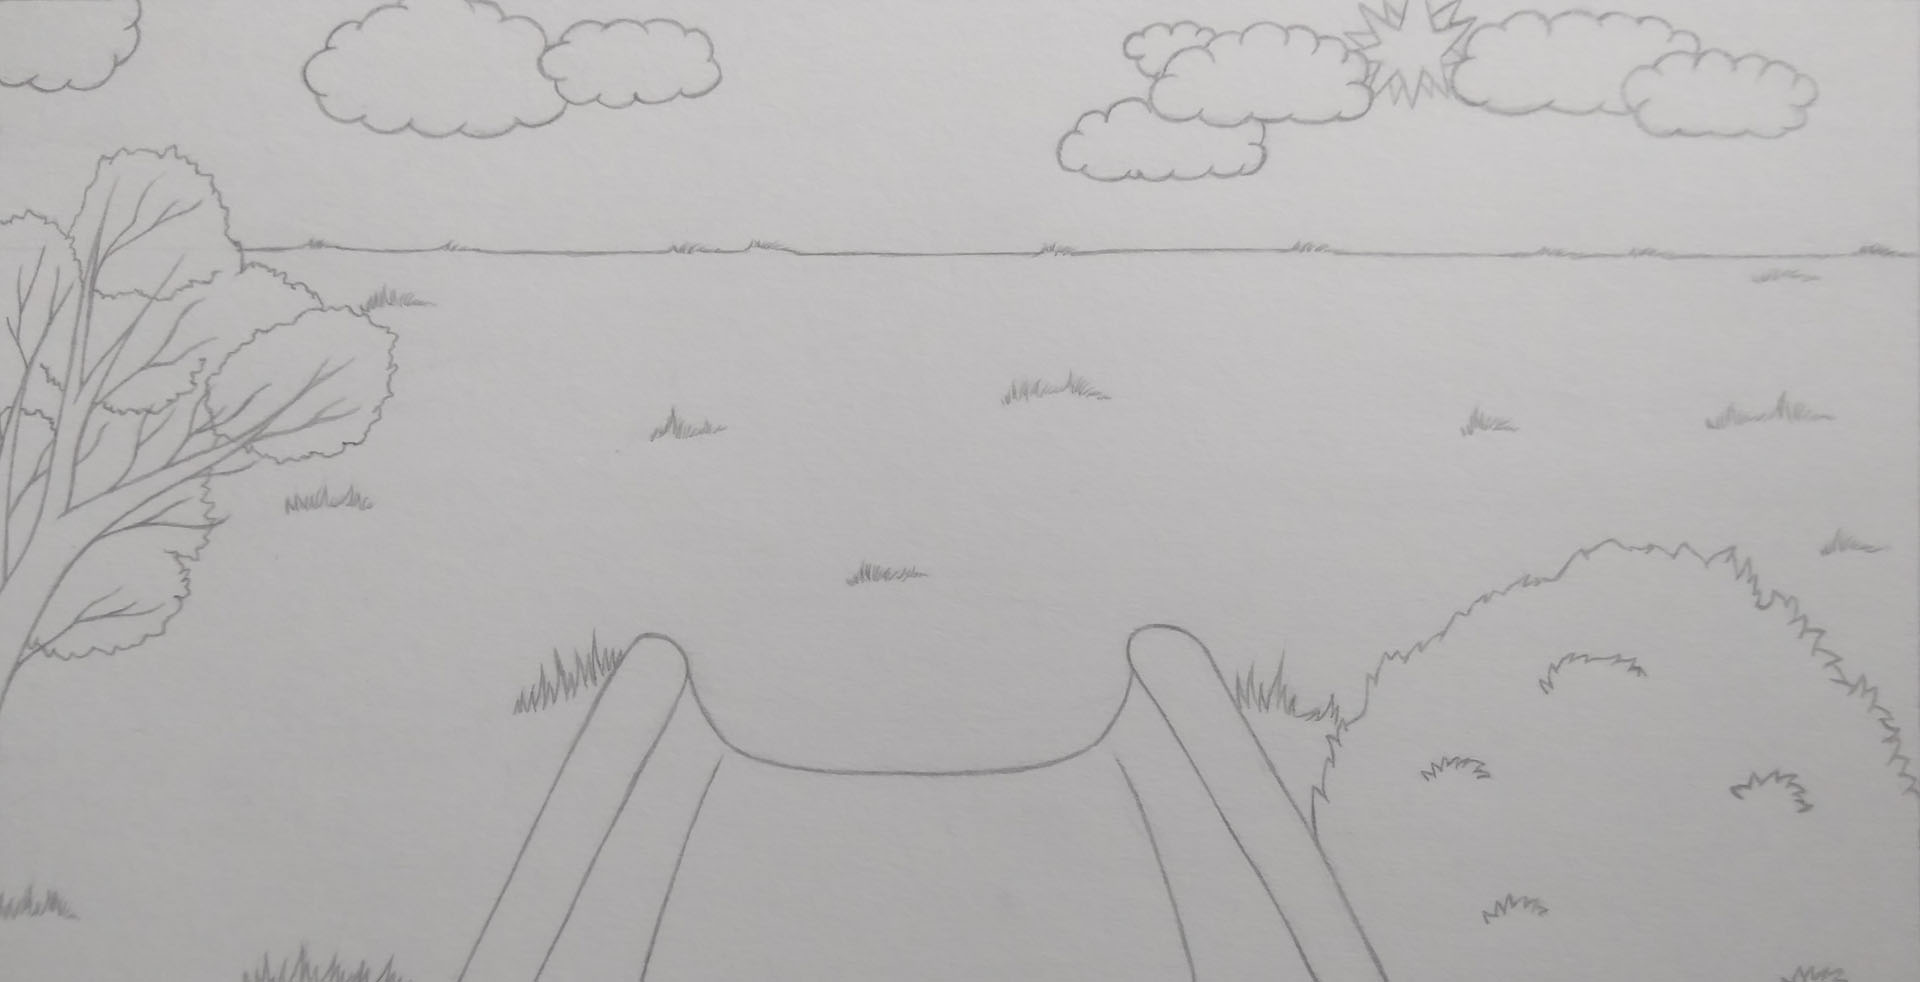
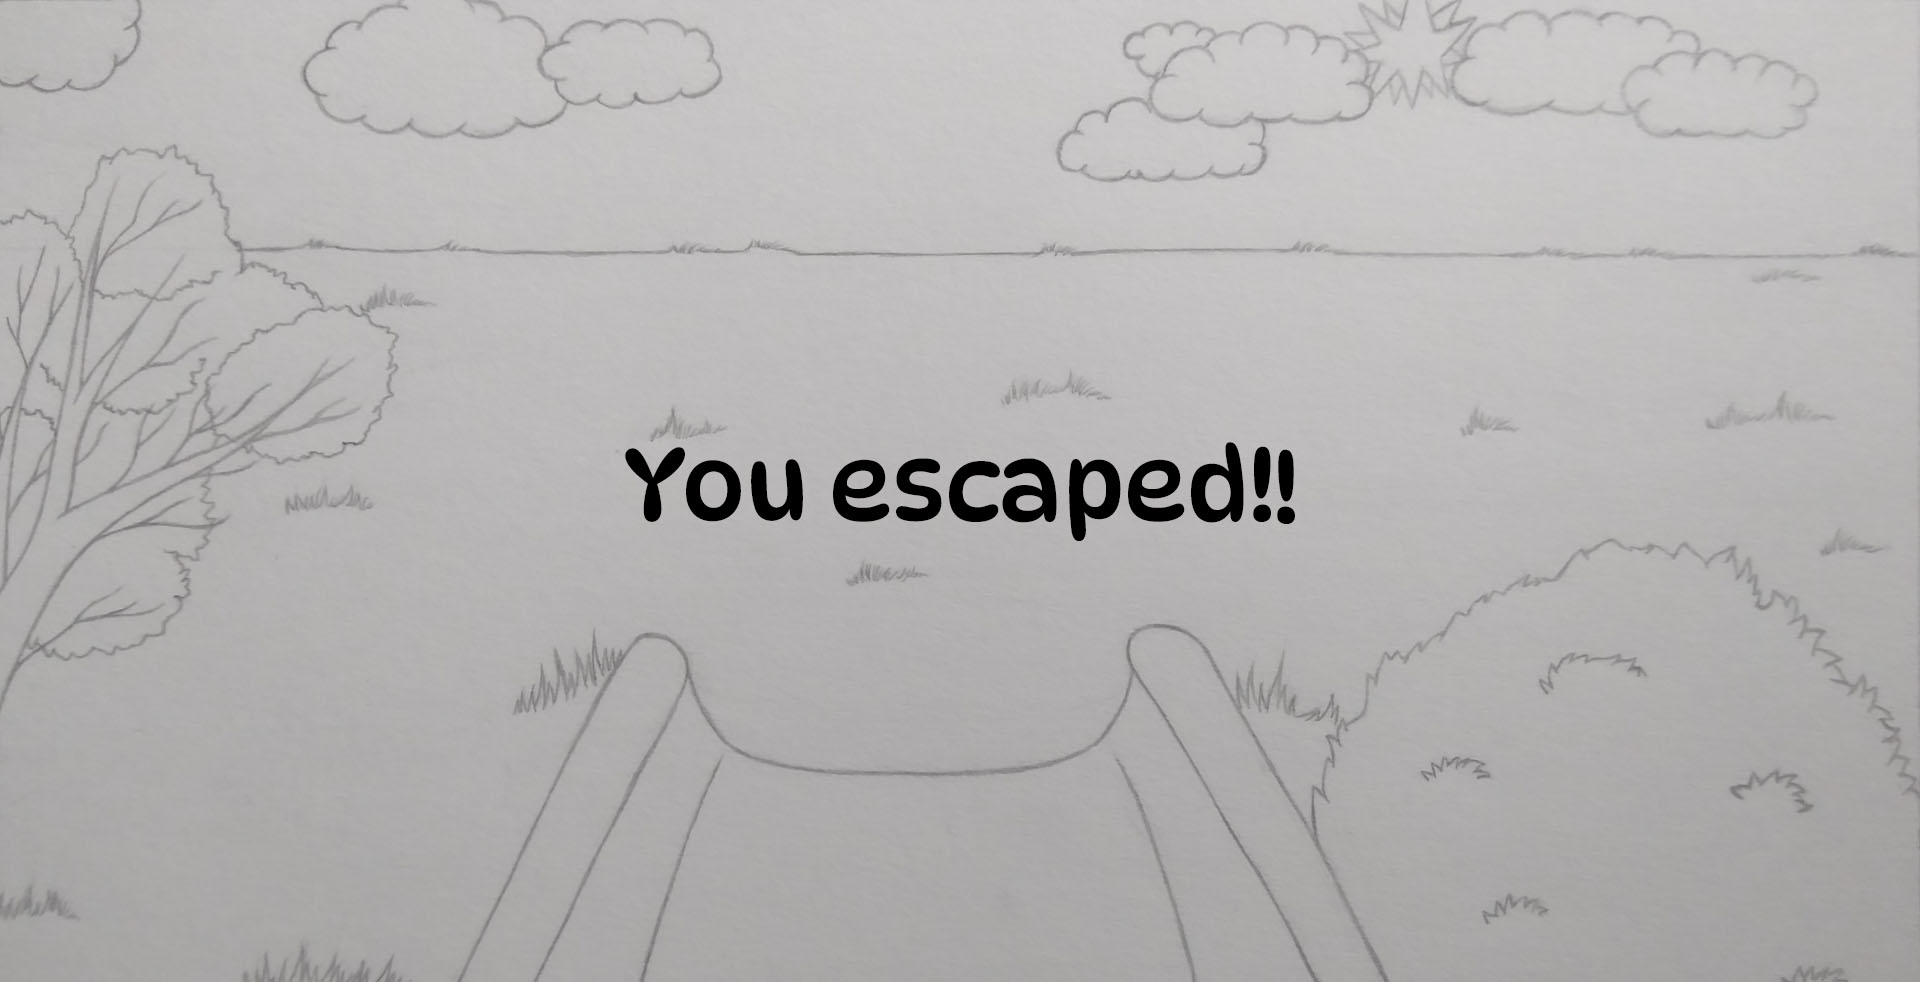
Added to navigation, added text to the escape screen.

Changed region(s): [[0.3125, 0.4582, 0.6875, 0.5499]]

diff --git a/static/myStyle.css b/static/myStyle.css
@@ -13,9 +13,56 @@
     height: 121px;
 }
 
+/* CSS for the navigation blocks --- invisible shapes overlaying doors, hallway entrances etc */
+
 #hallway1NavBlock {
     margin-top: -990px;
     margin-left: 1202px;
     margin-bottom: 430px;
     opacity: 0%;
+}
+
+#bearRoomNavBlock1 {
+    margin-top: -900px;
+    margin-left: 348px;
+    margin-bottom: 970px;
+    opacity: 0%;
+}
+
+#bearRoomNavBlock2 {
+    margin-top: -1440px;
+    margin-left: 1105px;
+    margin-bottom: 1270px;
+    opacity: 0%;
+}
+
+#beachNavBlock1 {
+    margin-top: -985px;
+    margin-left: 58px;
+    margin-bottom: 1038px;
+    opacity: 0%;
+}
+
+#beachNavBlock2 {
+    margin-top: -1495px;
+    margin-left: 60px;
+    margin-bottom: 1465px;
+    opacity: 0%;
+}
+
+#keyHallNavBlock {
+    margin-top: -1283px;
+    margin-left: 609px;
+    margin-bottom: 417px;
+    opacity: 0%;
+}
+
+#mirrorRoomNavBlock {
+    margin-top: -527px;
+    margin-left: 676px;
+    margin-bottom: 317px;
+    opacity: 0%;
+}
+
+#phantasmRoomNavBlock {
 }

diff --git a/templates/bear-room.html b/templates/bear-room.html
@@ -16,6 +16,13 @@
 
     <img class="backgroundPic" src="{{url_for('static', filename='bear-room.jpg')}}">
 
+    <!-- Add two navigation blocks / circles (a transparent image laid over the entrance to each tunnel). These can be
+         clicked on and will take the user through the corresponding tunnel. -->
+    <a href="/escape"><img id="bearRoomNavBlock1"
+                              src="{{url_for('static', filename='bear-room-tunnel-1-navigation-block.png')}}"></a>
+    <a href="/beach"><img id="bearRoomNavBlock2"
+                              src="{{url_for('static', filename='bear-room-tunnel-2-navigation-block.png')}}"></a>
+
 </body>
 
 </html>

diff --git a/templates/beach.html b/templates/beach.html
@@ -16,6 +16,13 @@
 
     <img class="backgroundPic" src="{{url_for('static', filename='beach-room.jpg')}}">
 
+    <!-- Add two navigation blocks (a transparent image laid over the ladder and the gate). These can be
+         clicked on and will take the user up the ladder or through the gate. -->
+    <a href="/bear-room"><img id="beachNavBlock1"
+                              src="{{url_for('static', filename='beach-room-ladder-navigation-block.png')}}"></a>
+    <a href="/key-hall"><img id="beachNavBlock2"
+                              src="{{url_for('static', filename='beach-room-gate-navigation-block.png')}}"></a>
+
 </body>
 
 </html>

diff --git a/templates/phantasm-room.html b/templates/phantasm-room.html
@@ -16,6 +16,12 @@
 
         <img class="backgroundPic" src="{{url_for('static', filename='phantasm-room.jpg')}}">
 
+        <!-- Add a navigation block (an invisible shape that can be clicked on) over the spiral staircase.
+             If the user clicks on it, they will be taken to the previous room. -->
+        <a href="/phantasm-room"><img id="phantasmRoomNavBlock"
+                                      src="{{url_for('static', filename='phantasm-room-stairs-navigation-block.png')}}">
+        </a>
+
     </body>
 
 </html>

diff --git a/templates/key-hall.html b/templates/key-hall.html
@@ -16,6 +16,11 @@
 
     <img class="backgroundPic" src="{{url_for('static', filename='hallway-with-key.jpg')}}">
 
+    <!-- Add a navigation block (an invisible shape that can be clicked on) over the entrance to the next hallway.
+         If the user clicks on it, they will be taken to the next room. -->
+    <a href="/mirror-room"><img id="keyHallNavBlock"
+                              src="{{url_for('static', filename='key-hallway-navigation-block.png')}}"></a>
+
 </body>
 
 </html>

diff --git a/templates/mirror-room.html b/templates/mirror-room.html
@@ -16,6 +16,11 @@
 
     <img class="backgroundPic" src="{{url_for('static', filename='mirror-room.jpg')}}">
 
+    <!-- Add a navigation block (an invisible shape that can be clicked on) over the spiral staircase.
+         If the user clicks on it, they will be taken to the next room. -->
+    <a href="/phantasm-room"><img id="mirrorRoomNavBlock"
+                              src="{{url_for('static', filename='mirror-room-stairs-navigation-block.png')}}"></a>
+
 </body>
 
 </html>
